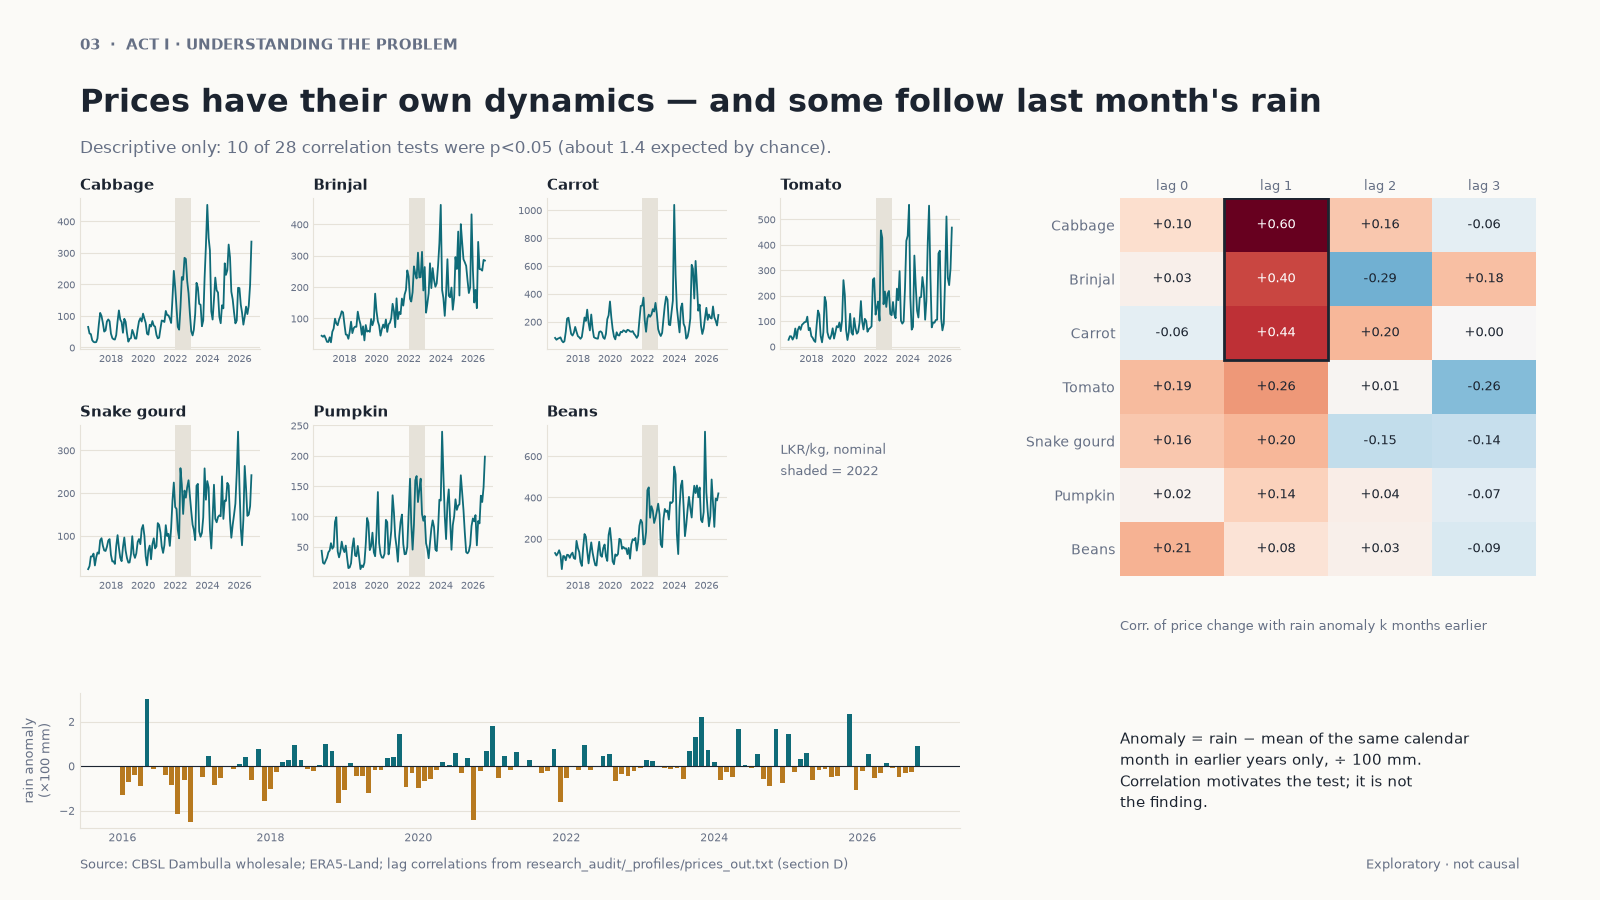
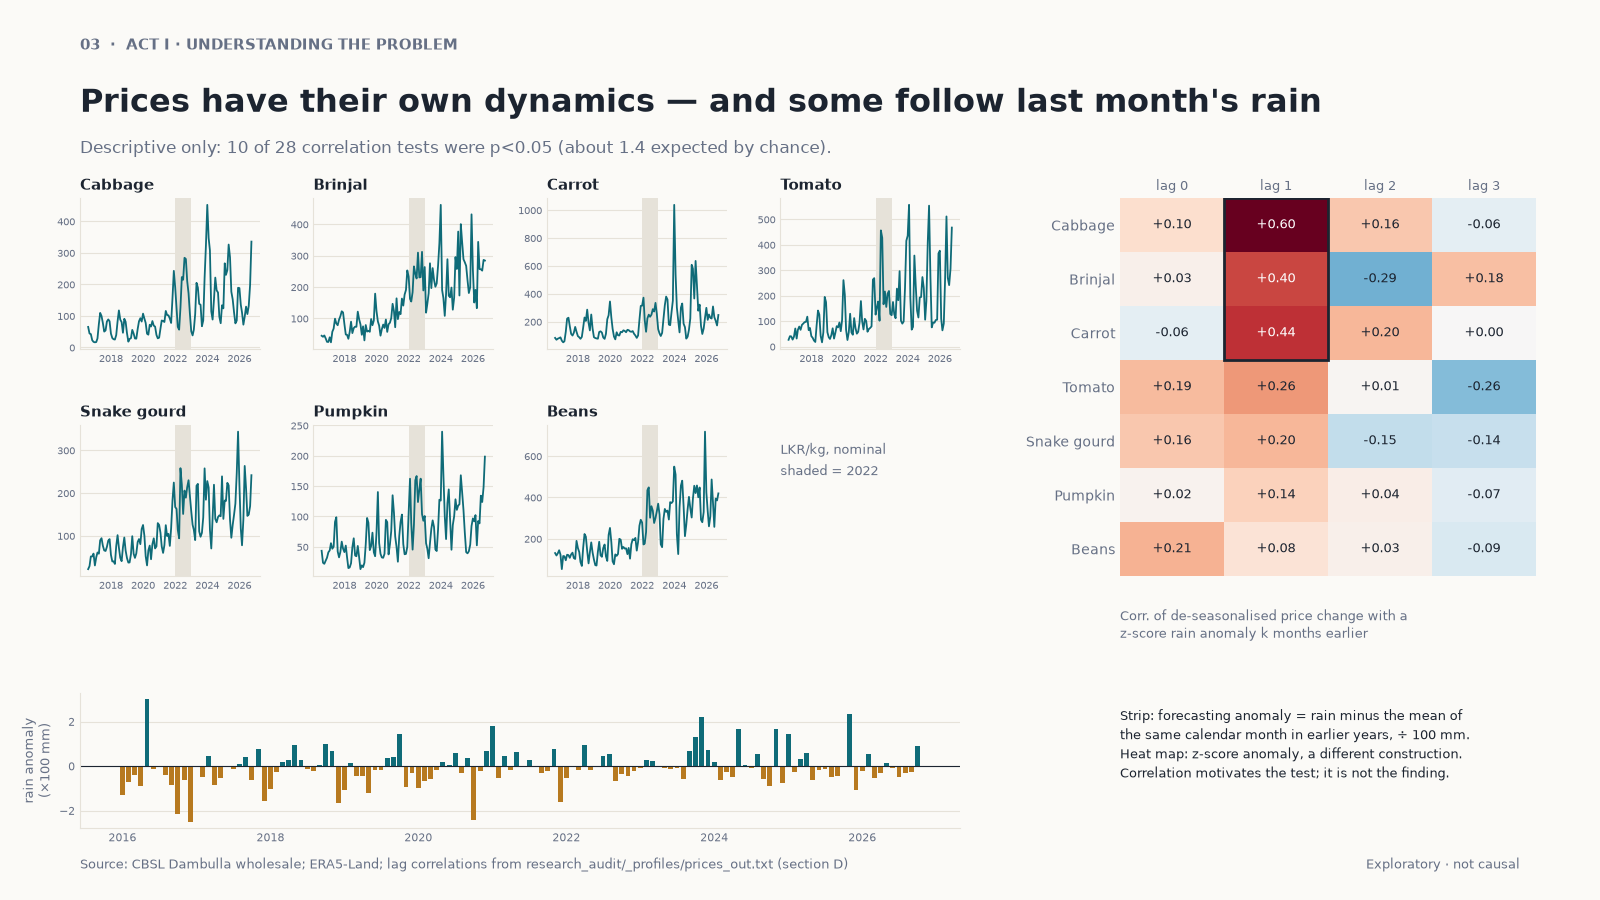
research-story: apply six medium audit fixes plus page-4 wording and citation cleanup
Page 9: import-share wording (low-production years and 2022); paddy-import correlations
identified as Pearson on detrended production (n=15; n=13 after dropping 2017/2022; Spearman -0.59);
exchange-rate panel labelled descriptive co-movement only; 0.67 rice factor disclosed as an assumption.
Page 3: z-score heat map vs mm/100 strip distinguished.
Page 6: evidence labels read from the stored v2 column (rendering unchanged).
Page 4: FX wording corrected to pilot RMSE for all seven vegetables.
References: accents, DOIs, obsolete caveat removed.
Audit rerun: 55 verified, 0 partial, 0 clarification, 0 unsupported.
No change to forecast_pilot.py, forecast_backtest_v2.py, validation outputs, or statistical values.

Changed region(s): [[0.6875, 0.7778, 0.9375, 0.9022], [0.6875, 0.6844, 0.9062, 0.7156]]

diff --git a/research-story/build_figures.py b/research-story/build_figures.py
@@ -38,15 +38,9 @@ ACTS = {**{i: "ACT I · UNDERSTANDING THE PROBLEM" for i in (1, 2, 3)},
         **{i: "ACT III · THE WIDER PICTURE" for i in (9, 10)}}
 
 
-def evidence(row_gain, p_holm):
-    """Label used in v2/validation (primary comparison)."""
-    if row_gain <= 0:
-        return "worse"
-    if p_holm < 0.05:
-        return "supported"
-    if p_holm < 0.15:
-        return "exploratory"
-    return "no evidence"
+# Stored v2 evidence label -> slide label (read from forecast_model_comparison_v2.csv, never re-derived)
+EVID_LABEL = {"supported (corrected)": "supported", "suggestive (uncorrected only)": "exploratory",
+              "no reliable evidence": "no evidence", "worse or no gain": "worse"}
 
 
 def frame(n, headline, source, sub=None):
@@ -203,12 +197,12 @@ def p03():
             h.text(j, i, f"{lag.values[i, j]:+.2f}", ha="center", va="center", fontsize=9, color="white" if abs(lag.values[i, j]) > 0.35 else INK)
     for sp in h.spines.values(): sp.set_visible(False)
     h.add_patch(Rectangle((0.5, -0.5), 1, 3, fill=False, ec=INK, lw=2))
-    fig.text(0.70, 0.30, "Corr. of price change with rain anomaly k months earlier", fontsize=9, color=MUTED)
+    fig.text(0.70, 0.325, "Corr. of de-seasonalised price change with a\nz-score rain anomaly k months earlier", fontsize=9, color=MUTED, va="top", linespacing=1.4)
     _, an = national_rain(); an = an.loc["2016":]
     b = fig.add_axes([0.05, 0.08, 0.55, 0.15])
     b.bar(an.index, an.values, width=24, color=[ACC if v >= 0 else EXPL for v in an.fillna(0)]); b.axhline(0, color=INK, lw=0.8)
     b.set_ylabel("rain anomaly\n(×100 mm)", fontsize=9); style_axes(b); b.tick_params(labelsize=8)
-    fig.text(0.70, 0.19, "Anomaly = rain − mean of the same calendar\nmonth in earlier years only, ÷ 100 mm.\nCorrelation motivates the test; it is not\nthe finding.", fontsize=10.5, va="top", linespacing=1.45)
+    fig.text(0.70, 0.215, "Strip: forecasting anomaly = rain minus the mean of\nthe same calendar month in earlier years, ÷ 100 mm.\nHeat map: z-score anomaly, a different construction.\nCorrelation motivates the test; it is not the finding.", fontsize=9.5, va="top", linespacing=1.45)
     save(fig, 3)
 
 
@@ -229,7 +223,7 @@ def p04():
         w.text(i * 0.075 + 0.035, 0.625, lab, ha="center", va="center", fontsize=11)
     w.text(0.0, 0.3, "A0 = month t · A3 (primary) = mean of t−2…t, overlaps A0 (corr 0.57)\nA3 (check) = mean of t−3…t−1, no overlap (corr −0.05)\nBoth use only rain already observed at t.", fontsize=10.5, va="top", linespacing=1.5)
     for i, t in enumerate(["Expanding window, refit at every origin", "Naive and seasonal-naive benchmarks scored too",
-                           "FX excluded: it worsened every pilot forecast", "No machine learning, no future rainfall"]):
+                           "FX excluded: it worsened pilot RMSE for all seven vegetables", "No machine learning, no future rainfall"]):
         w.text(0.42, 0.9 - i * 0.2, "•  " + t, fontsize=12, va="top")
     save(fig, 4)
 
@@ -260,7 +254,7 @@ def p05():
 
 def p06():
     c = mc(); gain, p = c.rmse_gain_vs_AR_pct.values, c.cw_p_holm.values
-    ev = [evidence(g, q) for g, q in zip(gain, p)]
+    ev = [EVID_LABEL[e] for e in c.evidence]
     fig = frame(6, "Rainfall helps some vegetables far more than others",
                 "forecast_model_comparison_v2.csv · Dambulla wholesale, national ERA5 rain, 62 forecasts each",
                 "Bar = size of improvement. Colour and label = strength of evidence (Holm-adjusted Clark–West p).")
@@ -337,8 +331,8 @@ def p09():
                 "ERA5-Land; DCS paddy; FAOSTAT; CBSL exchange rates. Context analyses; none feeds the forecasting model.",
                 "Weather, import exposure and exchange rates are shown side by side — never combined into one score.")
     cols = [(0.05, ACC, "WEATHER & PADDY", f"Yala rain vs harvested/sown, r = {r:+.2f}, n = {len(yl)}", "Short series, policy shocks: association only."),
-            (0.37, EXPL, "RICE IMPORTS", "Apparent import share of supply", "Not self-sufficiency; conversion assumed."),
-            (0.69, "#5a6270", "EXCHANGE RATE", "USD/LKR monthly mean (2022 shaded)", "Provisional: needs CPI/NCPI deflator.")]
+            (0.37, EXPL, "RICE IMPORTS", "Apparent import share of supply", "Not self-sufficiency. Paddy→rice factor\n0.67 is an assumption, not data."),
+            (0.69, "#5a6270", "EXCHANGE RATE", "USD/LKR monthly mean (2022 shaded)", "Descriptive co-movement only; no pass-through\nestimate (needs a CPI/NCPI deflator).")]
     for x0, c, h, cap, cav in cols:
         fig.add_artist(Rectangle((x0 - 0.005, 0.07), 0.29, 0.7, fc="white", ec=GRID, transform=fig.transFigure, zorder=0))
         fig.add_artist(Rectangle((x0 - 0.005, 0.74), 0.29, 0.03, fc=c, ec="none", transform=fig.transFigure))

diff --git a/research-story/audit_claims.py b/research-story/audit_claims.py
@@ -180,6 +180,33 @@ ref_rows = [
 for c, s, e in ref_rows:
     reg("refs", c, "research-story/references/research_references.md", "web check of publisher / repository record: " + e, s)
 
+# ---- wording / construction checks on the storyboard text itself (after corrections) ----
+def rd(path):
+    return (WORK / "research-story" / path).read_text()
+
+
+bf, r9, r3, r4, r6 = rd("build_figures.py"), rd("storyboard/09_wider_context/README.md"), rd("storyboard/03_prices_and_rain/README.md"), rd("storyboard/04_forecast_experiment/README.md"), rd("storyboard/06_main_result/README.md")
+
+
+def fix(prefix, cond, ev_add, note=None):
+    for r in rows:
+        if r["claim"].startswith(prefix):
+            if cond:
+                r["status"] = "verified"
+            r["evidence"] += " | storyboard text check: " + ev_add + (" (OK)" if cond else " (NOT FOUND)")
+            if note is not None and cond:
+                r["note"] = note
+
+
+fix("Evidence labels", "EVID_LABEL" in bf and "c.evidence" in bf and "def evidence(" not in bf, "build_figures.py reads the stored v2 evidence column", "Fixed: labels read from the stored v2 column.")
+fix("Anomaly = rain minus", "z-score anomaly, a different construction" in bf and "z-score rain anomaly" in r3, "slide 3 footnote and README distinguish z-score from mm/100", "Fixed: footnote added.")
+fix("Production vs imports r = -0.79", "Pearson r = -0.79" in r9 and "detrended paddy production" in r9, "README 09 names Pearson, detrended, FAO imports, n", "Fixed: qualifier added.")
+fix("Production vs imports r = -0.46", "dropping 2017 and 2022" in r9 and "-0.59" in r9, "README 09 gives n = 13, single detrending, and the Spearman -0.59", "Fixed: qualifier added.")
+fix("Apparent import share spikes", "low-production years (2014, 2017) and in 2022" in r9, "README 09 wording", "Fixed: wording corrected.")
+fix("Paddy to rice-equivalent", "0.67" in r9 and "assumption" in r9 and "assumption" in bf, "slide and README call 0.67 an assumption; documented in research_audit/02_variable_catalogue.md line 22 and feasibility_tests.py:30", "0.67 is a documented project assumption, now disclosed on the slide and README as an assumption (not as verified data).")
+fix("Exchange-rate panel is descriptive", "Descriptive co-movement only" in bf and "descriptive co-movement only" in r9, "slide 9 caption and README 09 limitation", "Fixed: explicit descriptive-only wording added.")
+fix("FX excluded because it worsened pilot forecasts", "pilot RMSE for all seven vegetables" in bf and "pilot RMSE for all seven vegetables" in r4, "slide 4 bullet and README 04", "Fixed: wording corrected.")
+
 out = pd.DataFrame(rows); out.insert(0, "id", range(1, len(out) + 1))
 out.to_csv(WORK / "research-story/CLAIM_SOURCE_REGISTER.csv", index=False)
 print(out.status.value_counts().to_string()); print("total", len(out))

diff --git a/research-story/AUDIT_REPORT.md b/research-story/AUDIT_REPORT.md
@@ -10,9 +10,25 @@ Scope: the ten slides (`storyboard/NN_*/storyboard.png`), their READMEs, `refere
 | Needs clarification | 2 |
 | Unsupported | 0 |
 
-No claim contradicts its source. Every issue below is a missing qualifier or loose wording. **No correction has been applied**: each is proposed, for you to approve.
+No claim contradicts its source. Every issue below is a missing qualifier or loose wording. This is the **initial audit**; the corrections you approved are listed in the next section.
 
-## Issues by severity
+## Corrections applied after approval (M1-M6, L1, L4)
+Rerunning `audit_claims.py` after the corrections gives **55 verified, 0 partially verified, 0 needs clarification, 0 unsupported**. The seven rows that changed now include a text check on the slide or README wording. Analysis outputs and statistical values are unchanged.
+
+| Item | What changed |
+|---|---|
+| M1 | Page 9 README: import share "peaks in low-production years (2014, 2017) and in 2022" |
+| M2 | Page 9 README: Pearson r on detrended paddy production vs FAO rice imports; -0.46 has n = 13 and single detrending; the all-years Spearman -0.59 is stated |
+| M3 | Page 9 slide caption and README: "Descriptive co-movement only; no pass-through estimate" |
+| M4 | Page 9 slide and README: the paddy-to-rice factor 0.67 is shown as an **assumption**. **Correction to this audit:** the project already documents it as an assumption (`research_audit/02_variable_catalogue.md` line 22, `feasibility_tests.py:30`). The initial audit's statement that no source appears anywhere was wrong; the gap was only that the slide and README did not say so. No external source for 0.67 has been found, and none is claimed. |
+| M5 | Page 3 slide footnote and README: the heat map uses a z-score anomaly, the strip the mm/100 forecasting anomaly |
+| M6 | `build_figures.py` now reads the stored v2 `evidence` column; the independent rule is removed. Page 6 renders identically |
+| L1 | Page 4 slide and README: "worsened pilot RMSE for all seven vegetables" |
+| L4 | `references/research_references.md`: accents restored, DOIs added, obsolete caveat replaced by an accurate verification note |
+
+Not applied (low priority, optional): L2 (quote the stored bootstrap p values on page 7), L3 ("point estimates" wording on page 7). L5 needed no change.
+
+## Issues by severity (initial audit)
 
 ### Medium — fix before publication
 | # | Where | Issue | Proposed correction |

diff --git a/research-story/storyboard/09_wider_context/README.md b/research-story/storyboard/09_wider_context/README.md
@@ -14,16 +14,16 @@ Weather, rice imports and exchange rates are different dimensions of vulnerabili
 Three side-by-side panels: Yala rain versus harvested/sown ratio, apparent rice import share, USD/LKR. Side by side, never merged, so differences in evidence stay visible.
 
 ## Evidence
-ERA5 and DCS Yala 2010-2025 (r about +0.68, n = 16, detrended); FAOSTAT imports over rice-equivalent production plus imports; CBSL USD/LKR monthly mean. Production versus imports r = -0.79 (n = 15), -0.46 without 2017 and 2022.
+ERA5 and DCS Yala 2010-2025 (r about +0.68, n = 16, detrended); FAOSTAT imports over rice-equivalent production plus imports; CBSL USD/LKR monthly mean. Production versus imports: Pearson r = -0.79 (n = 15, 2010-2024) between detrended paddy production and FAO rice imports in the same year; -0.46 (n = 13) after dropping 2017 and 2022, with production detrended once on all 15 years. The all-years Spearman is -0.59.
 
 ## Explanation
-Paddy outcomes relate to seasonal rain; import share spikes in crisis years; the exchange rate jumped in 2022. These are context, not links in a causal chain.
+Paddy outcomes relate to seasonal rain; import share peaks in low-production years (2014, 2017) and in 2022; the exchange rate rose by about 80% between December 2021 and December 2022. The exchange-rate panel is descriptive co-movement only; no pass-through estimate is made. These are context, not links in a causal chain.
 
 ## Interpretation
 Vulnerability is multi-dimensional; no single composite score is offered.
 
 ## Limitations
-Short series, policy shocks, Comtrade 2018 gap and partial 2025, no CPI/NCPI deflator yet, apparent import share is not self-sufficiency.
+Short series, policy shocks, Comtrade 2018 gap and partial 2025, no CPI/NCPI deflator yet (so no pass-through claim), apparent import share is not self-sufficiency. Rice-equivalent production uses an assumed 0.67 milling factor (an assumption, not in the data; `research_audit/02_variable_catalogue.md`).
 
 ## Transition
 Page 10 gathers the findings and what they allow us to say.

diff --git a/research-story/references/research_references.md b/research-story/references/research_references.md
@@ -1,8 +1,9 @@
 # Methods references
-- Clark, T. and West, K. (2007). Approximately normal tests for equal predictive accuracy in nested models. Journal of Econometrics.
-- Diebold, F. and Mariano, R. (1995). Comparing predictive accuracy. Journal of Business and Economic Statistics.
-- Newey, W. and West, K. (1987). A simple, positive semi-definite, heteroskedasticity and autocorrelation consistent covariance matrix. Econometrica.
-- Holm, S. (1979). A simple sequentially rejective multiple test procedure. Scandinavian Journal of Statistics.
-- Kunsch, H. (1989). The jackknife and the bootstrap for general stationary observations (moving-block bootstrap). Annals of Statistics.
-- Munoz-Sabater, J. et al. (2021). ERA5-Land. Earth System Science Data.
-Citation details should be verified before use in a written report.
+Bibliographic details checked against publisher or repository records (see `AUDIT_REPORT.md`); not checked against the full text.
+
+- Clark, T. E. and West, K. D. (2007). Approximately normal tests for equal predictive accuracy in nested models. Journal of Econometrics, 138(1), 291-311.
+- Diebold, F. X. and Mariano, R. S. (1995). Comparing predictive accuracy. Journal of Business & Economic Statistics, 13(3), 253-263. https://doi.org/10.1080/07350015.1995.10524599
+- Newey, W. K. and West, K. D. (1987). A simple, positive semi-definite, heteroskedasticity and autocorrelation consistent covariance matrix. Econometrica, 55(3), 703-708. https://doi.org/10.2307/1913610
+- Holm, S. (1979). A simple sequentially rejective multiple test procedure. Scandinavian Journal of Statistics, 6(2), 65-70. https://doi.org/10.2307/4615733
+- Künsch, H. R. (1989). The jackknife and the bootstrap for general stationary observations. Annals of Statistics, 17(3), 1217-1241. https://doi.org/10.1214/aos/1176347265
+- Muñoz-Sabater, J. et al. (2021). ERA5-Land: a state-of-the-art global reanalysis dataset for land applications. Earth System Science Data, 13(9), 4349-4383. https://doi.org/10.5194/essd-13-4349-2021

diff --git a/research-story/storyboard/03_prices_and_rain/README.md b/research-story/storyboard/03_prices_and_rain/README.md
@@ -14,7 +14,7 @@ Prices trend, spike and carry the 2022 shock. Rainfall anomalies are known when 
 Small multiples of the seven price series (shaded 2022); a lag-0 to lag-3 correlation heat map with lag-1 top three outlined; a rain-anomaly bar strip underneath. Heat map is the right form for vegetable-by-lag comparison; small multiples keep each series readable.
 
 ## Evidence
-CBSL monthly means; ERA5 anomaly = rain minus same-calendar-month mean of earlier years, divided by 100 mm; correlations from `research_audit/_profiles/prices_out.txt` section D (copied to `03_prices_and_rain/assets/lag_correlations.csv`).
+CBSL monthly means; ERA5 anomaly = rain minus same-calendar-month mean of earlier years, divided by 100 mm; correlations from `research_audit/_profiles/prices_out.txt` section D (copied to `03_prices_and_rain/assets/lag_correlations.csv`). The correlations use a z-score rain anomaly against de-seasonalised price changes; the strip shows the mm/100 forecasting anomaly. They are different constructions.
 
 ## Explanation
 Lag-1: cabbage +0.60, carrot +0.44, brinjal +0.40. 10 of 28 tests were nominally significant versus about 1.4 expected by chance, so I treat this as a pointer, not a finding.
@@ -23,7 +23,7 @@ Lag-1: cabbage +0.60, carrot +0.44, brinjal +0.40. 10 of 28 tests were nominally
 Price history already has structure, so a fair test must give the baseline model that structure.
 
 ## Limitations
-Many tests, short series, exploratory. Correlation is not forecasting skill and not causation.
+The heat map and the strip use different rain anomalies (z-score vs mm/100). Many tests, short series, exploratory. Correlation is not forecasting skill and not causation.
 
 ## Transition
 Page 4 turns the hint into a controlled comparison.

diff --git a/research-story/storyboard/06_main_result/README.md b/research-story/storyboard/06_main_result/README.md
@@ -11,7 +11,7 @@ The centrepiece: answer whether rainfall helps, vegetable by vegetable.
 Cabbage, brinjal and carrot improve materially and survive correction. Tomato is only suggestive. Snake gourd and pumpkin show little. Beans get slightly worse.
 
 ## Visual
-Horizontal bars for RMSE gain, fixed vegetable order, zero line, with Holm p and an evidence label beside each bar. Colour is teal for supported, amber for exploratory, grey for none, red for worse, and the label repeats it so colour is not the only cue. Size and strength are kept separate on purpose.
+Horizontal bars for RMSE gain, fixed vegetable order, zero line, with Holm p and an evidence label beside each bar. Colour is teal for supported, amber for exploratory, grey for none, red for worse, and the label repeats it so colour is not the only cue. Size and strength are kept separate on purpose. Evidence labels are read from the stored v2 `evidence` column (supported (corrected), suggestive (uncorrected only), no reliable evidence, worse or no gain), not re-derived.
 
 ## Evidence
 `forecast_model_comparison_v2.csv`: Dambulla, mean price, national rain. Gains 19.7 / 12.4 / 8.2 / 4.8 / 1.8 / 1.8 / -1.5 percent; Holm CW p 0.0018 / 0.0009 / 0.0285 / 0.109 / 0.189 / 0.235 / 0.557.

diff --git a/research-story/storyboard/04_forecast_experiment/README.md b/research-story/storyboard/04_forecast_experiment/README.md
@@ -17,7 +17,7 @@ Top: two model boxes to a forecast box to an error comparison. Bottom: month win
 `forecast_backtest_v2.py`; `forecast_validation_v2/predictor_overlap.csv` (corr(A0,A3) = 0.57 primary, -0.05 non-overlapping).
 
 ## Explanation
-Lag set chosen by AIC on training rows only, shared between models. A0 is month t rain; A3 in the primary is the mean of t-2, t-1, t, so it overlaps A0. This is not leakage but the predictors are correlated; the non-overlapping version is a check. Naive and seasonal-naive benchmarks are also scored. FX is excluded because it worsened pilot forecasts.
+Lag set chosen by AIC on training rows only, shared between models. A0 is month t rain; A3 in the primary is the mean of t-2, t-1, t, so it overlaps A0. This is not leakage but the predictors are correlated; the non-overlapping version is a check. Naive and seasonal-naive benchmarks are also scored. FX is excluded because it worsened pilot RMSE for all seven vegetables.
 
 ## Interpretation
 The design isolates the marginal value of rain over price history.
